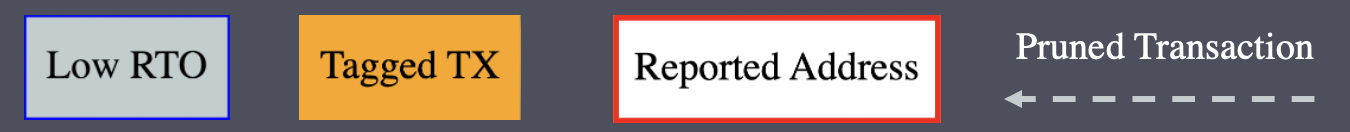
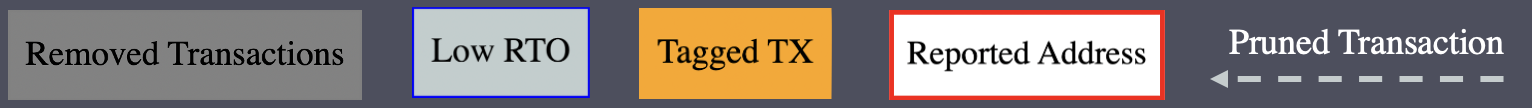
- Added % of root value to the nodes in manual mode - Updated the graph legend

diff --git a/website/user_interface/templates/user_interface/modal.html b/website/user_interface/templates/user_interface/modal.html
@@ -10,7 +10,7 @@
                     <table id="transaction_table" class="table table-light table-bordered">
                         <tr>
                             <th class="checkbox_td">Select/De-select</th>
-                            <th class="tx_td" style="padding-left: 40px; padding-right: 40px">Layer {{ layer }} transactions</th>
+                            <th class="tx_td" style="padding-left: 40px; padding-right: 40px">Layer {{ layer }} transactions ({{ transactions|length }} tx)</th>
                         </tr>
                         {% for transaction in transactions %}
                             <tr>
@@ -21,7 +21,7 @@
                                 <td class="tx_td">
                                     <a href="https://www.walletexplorer.com/txid/{{ transaction.txid }}" data-bs-toggle="tooltip" title="Click to see the tx" target="_blank"> {{ transaction.txid|truncatechars:6 }}</a> <br>
                                     {{ transaction.amount }} BTC <br>
-                                    {{ transaction.rto }} RTO
+                                    {{ transaction.rto }} RTO (<span style="font-style: italic; color: #5b80b2">{{ transaction.rto_pt }}%</span>)
                                 </td>
                             </tr>
                         {% endfor %}

diff --git a/website/user_interface/templates/user_interface/tree.html b/website/user_interface/templates/user_interface/tree.html
@@ -2,5 +2,5 @@
 {% include file_name %}
 
 <div id="graph_legend">
-  <img src="{% static 'graph_legend.png' %}" style="width: 80%; height:auto">
+  <img src="{% static 'graph_legend.png' %}" style="width: 90%; height:auto">
 </div>

diff --git a/graph_visualisation.py b/graph_visualisation.py
@@ -41,7 +41,7 @@ class GraphVisualisation:
         self.add_labels()
         self.set_low_rto()
         self.set_removed()
-        self.make_legend()
+        # self.make_legend()
         self.dot.render(directory=f'{FILE_DIR}/doctest-output', view=self.display)
 
         print("Tree done!")
@@ -76,7 +76,7 @@ class GraphVisualisation:
         txid_set, prev_txid_set = self.get_all_txids()
         nodes_to_highlight = list(txid_set - prev_txid_set)
         for txid in nodes_to_highlight:
-            self.dot.node(txid, color='blue', style='filled', fillcolor='skyblue3')
+            self.dot.node(txid, color='blue', style='filled', fillcolor='azure3')
 
     def make_legend(self):
         with self.dot.subgraph(name='cluster_legend') as c:
@@ -84,7 +84,7 @@ class GraphVisualisation:
             c.node("pruned_tx", label="", penwidth='0')
             c.node("pruned_tx_end", label="", penwidth='0')
             c.edge("pruned_tx", "pruned_tx_end", label="Pruned Tx", style='dashed, bold', color="azure3")
-            c.node("low_rto", label="Low RTO", color='blue', style='filled', fillcolor='burlywood')
+            c.node("low_rto", label="Low RTO", color='blue', style='filled', fillcolor='azure3')
             c.node("tagged_tx", label="Tagged TX", color='orange', style='filled', fillcolor='orange')
             c.node("removed_tx", label="Removed Transactions", color='gray', style='filled', fillcolor='gray51')
             c.node("reported_add", label="Reported Address", color='red', style='bold')

diff --git a/chain_parser.py b/chain_parser.py
@@ -517,7 +517,8 @@ class ChainParser:
         """
         layer = self.layer_counter - 1
         if self.send_fct is not None:   # In case program is running via UI
-            data_tx = {'transactions': [{'index': i, 'txid': tx.txid, "amount": tx.amount, "rto": tx.rto}
+            data_tx = {'transactions': [{'index': i, 'txid': tx.txid, "amount": tx.amount,
+                                         "rto": tx.rto, "rto_pt": np.round(tx.rto/self.root_value*100, 2)}
                                         for i, tx in enumerate(self.transaction_lists[layer])],
                        'layer': layer}
 
